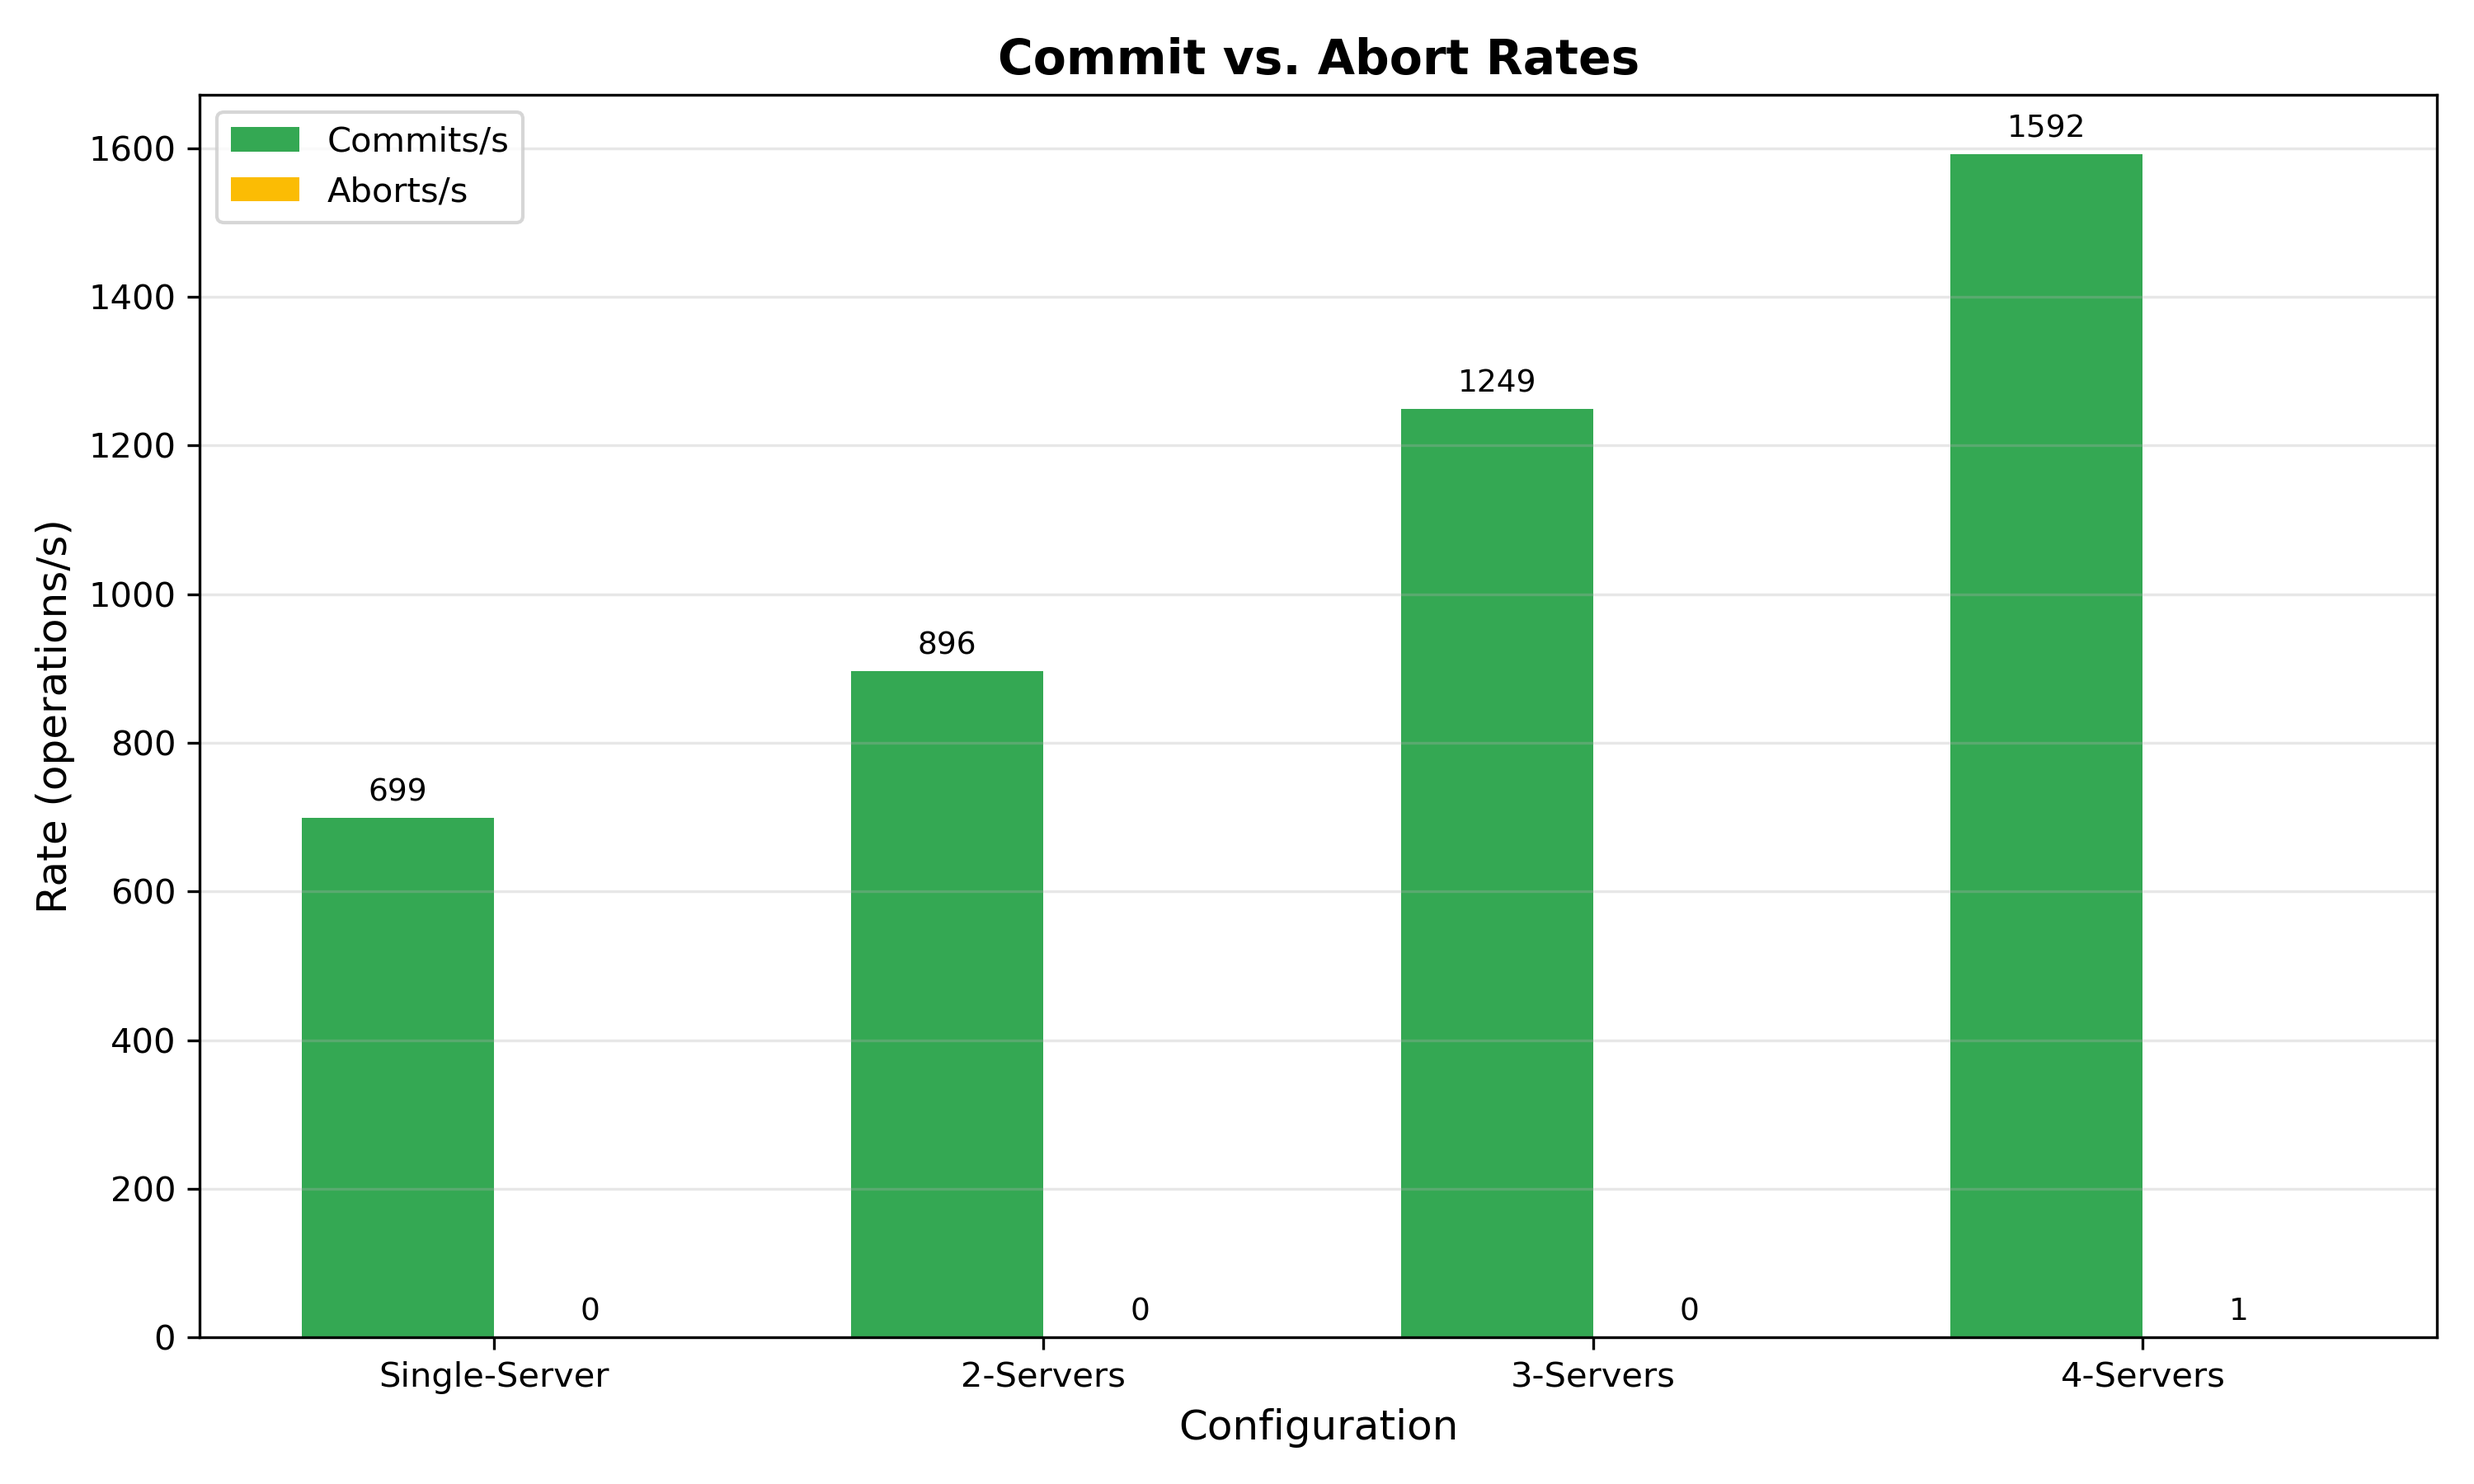
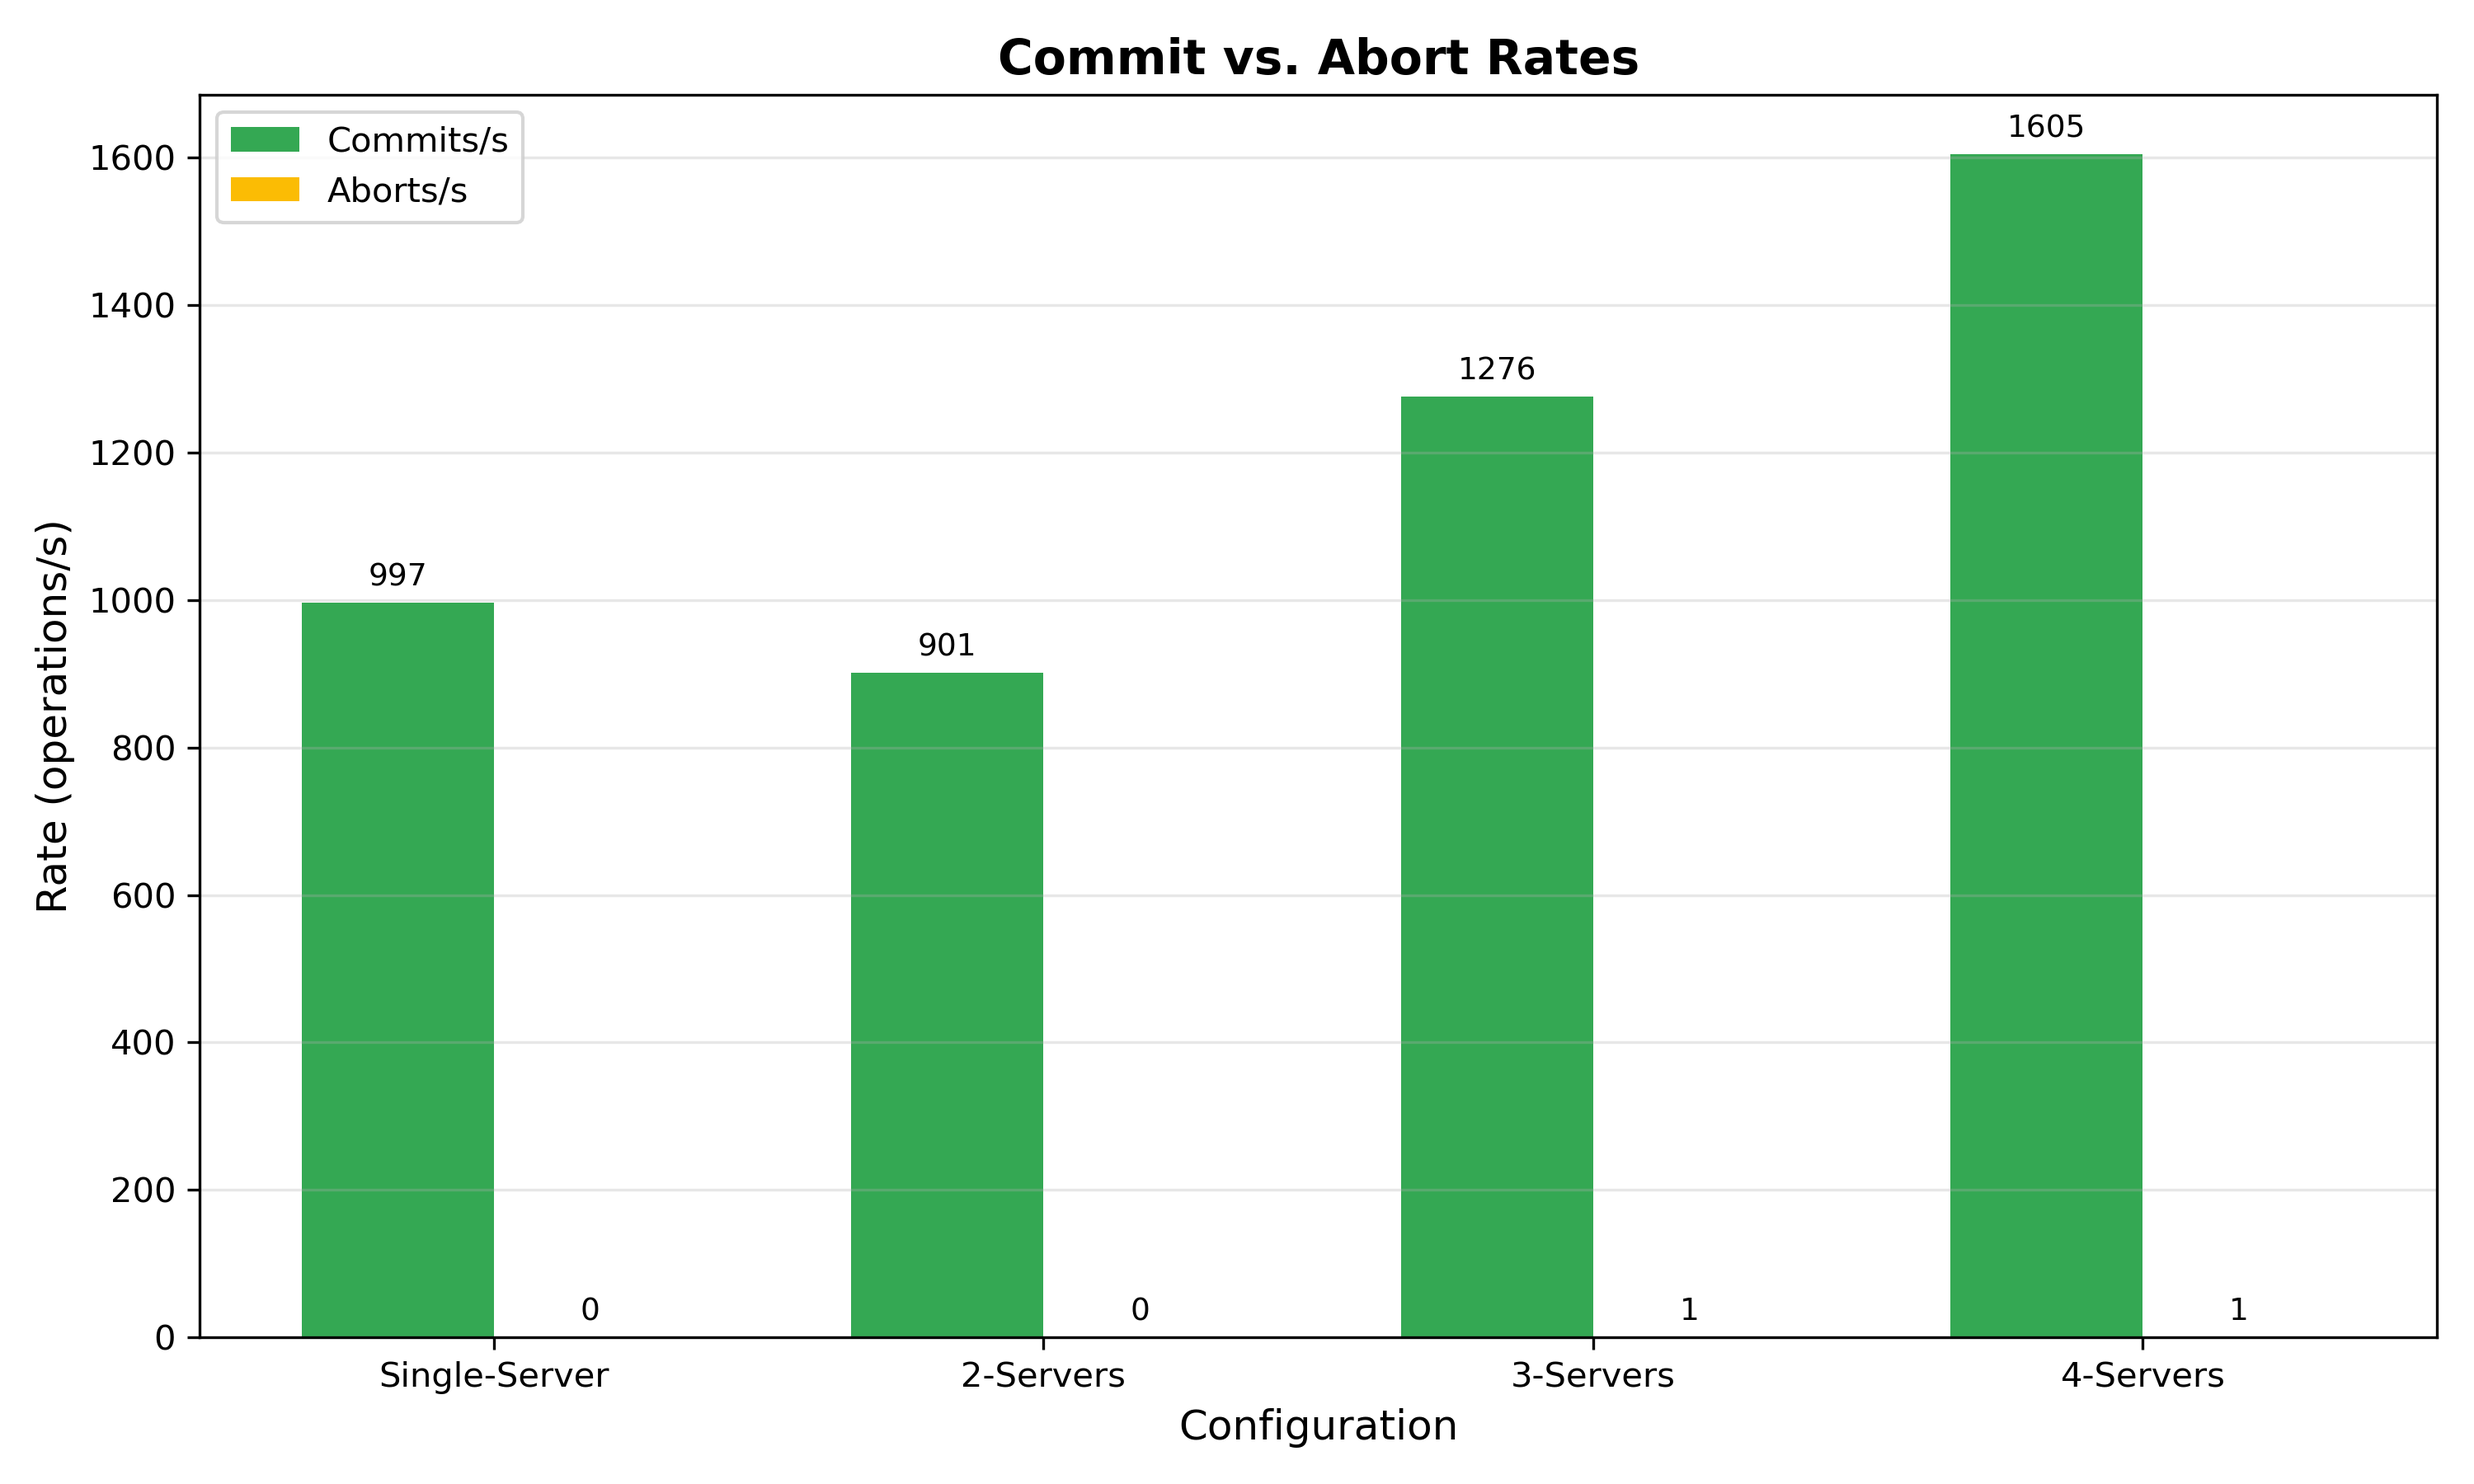
Remove retry logic in client. Update graphs and result run

diff --git a/kvs/client/main.go b/kvs/client/main.go
@@ -306,12 +306,6 @@ func runClient(id int, hosts []string, done *atomic.Bool, workload *kvs.Workload
 					}
 				} else {
 					client.Abort()
-					// Exponential backoff, max 100ms
-					backoff := time.Duration(1<<uint(min(retryCount, 7))) * time.Millisecond
-					if backoff > 100*time.Millisecond {
-						backoff = 100 * time.Millisecond
-					}
-					time.Sleep(backoff)
 				}
 
 				if retryCount >= maxRetries {
